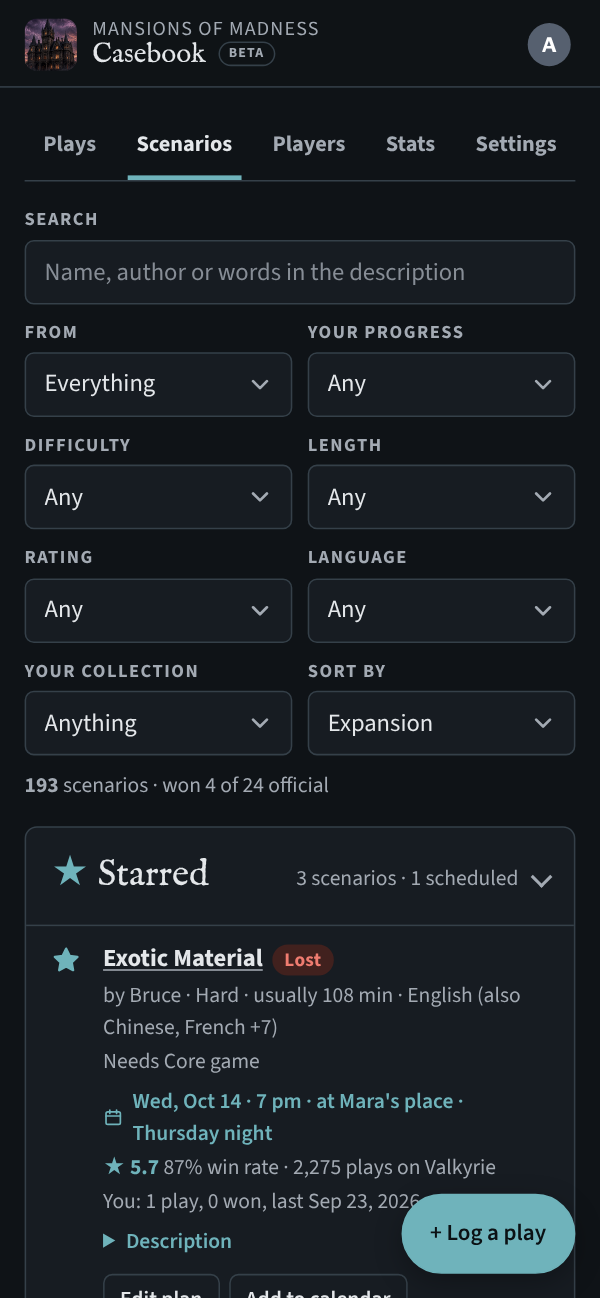
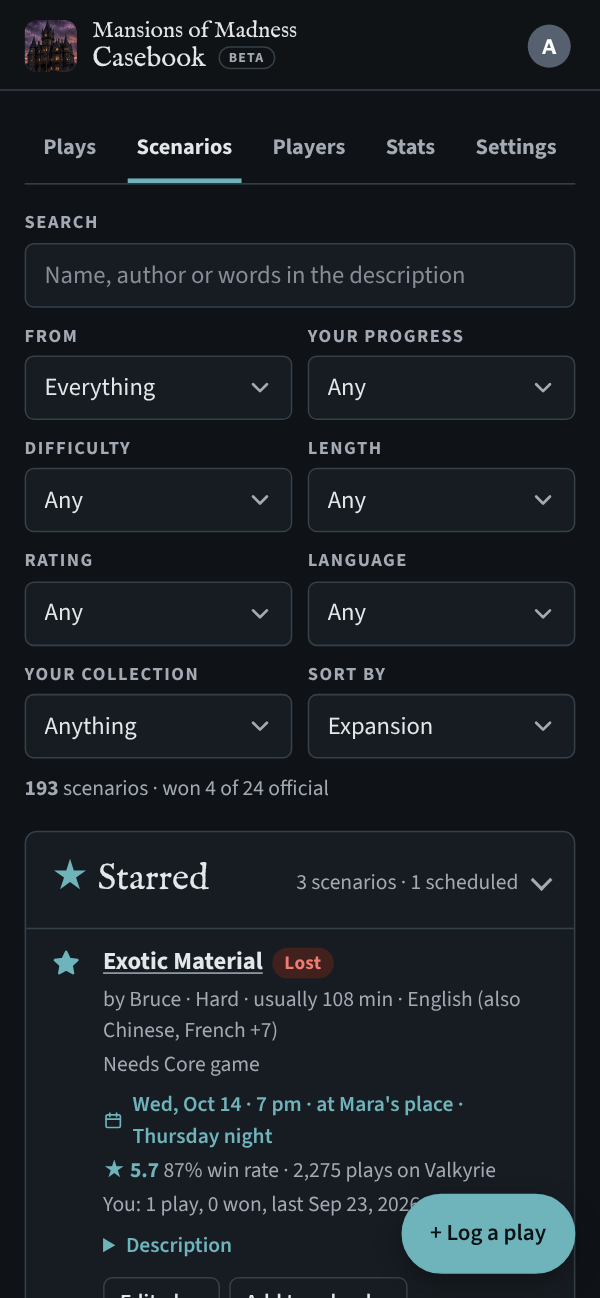
Phone title: both lines in the same font (v54)
On phones the name splits over two lines; "Mansions of Madness" now stays in the
title's own typeface (smaller) instead of switching to small grey capitals.

Claude-Session: https://claude.ai/code/session_019kh66ouXYwNDK6aTZ456xr

diff --git a/css/app.css b/css/app.css
@@ -41,7 +41,7 @@ h2{font-size:24px}
 /* the Beta pill after the name, as on the Arkham Horror RPG Ledger (the admin page shows its Admin tag there instead) */
 .brand .beta{display:inline-block;vertical-align:4px;margin-left:4px;font-style:normal;font-family:var(--body);font-size:10px;font-weight:700;letter-spacing:.08em;text-transform:uppercase;color:var(--muted);border:1px solid var(--line);border-radius:999px;padding:1px 7px;line-height:1.5}
 /* phones (up to the widest iPhones): the name on two lines so it isn't cut off */
-@media (max-width:480px){.brand span{font-size:18px}.brand b{display:block;font-size:13px;color:var(--muted);font-family:var(--body);letter-spacing:.06em;text-transform:uppercase}.brand .beta{font-size:9px;padding:0 6px;vertical-align:3px}}
+@media (max-width:480px){.brand span{font-size:18px}.brand b{display:block;font-size:15px;line-height:1.1}.brand .beta{font-size:9px;padding:0 6px;vertical-align:3px}}
 
 main{flex:1;width:100%;max-width:980px;margin:0 auto;padding:16px 16px 56px;display:flex;flex-direction:column;gap:16px}
 .foot{max-width:980px;width:100%;margin:0 auto;padding:16px;border-top:1px solid var(--line);display:flex;flex-wrap:wrap;gap:6px 16px;font-size:13px;color:var(--muted)}

diff --git a/js/version.js b/js/version.js
@@ -1,3 +1,3 @@
 /* The one place the version lives. Bump it with every change (see CLAUDE.md): every page's footer and the
    account menu show it, and the offline cache in sw.js is named after it, so a bump also refreshes installed apps. */
-self.APP_VERSION = 'v53';
+self.APP_VERSION = 'v54';
